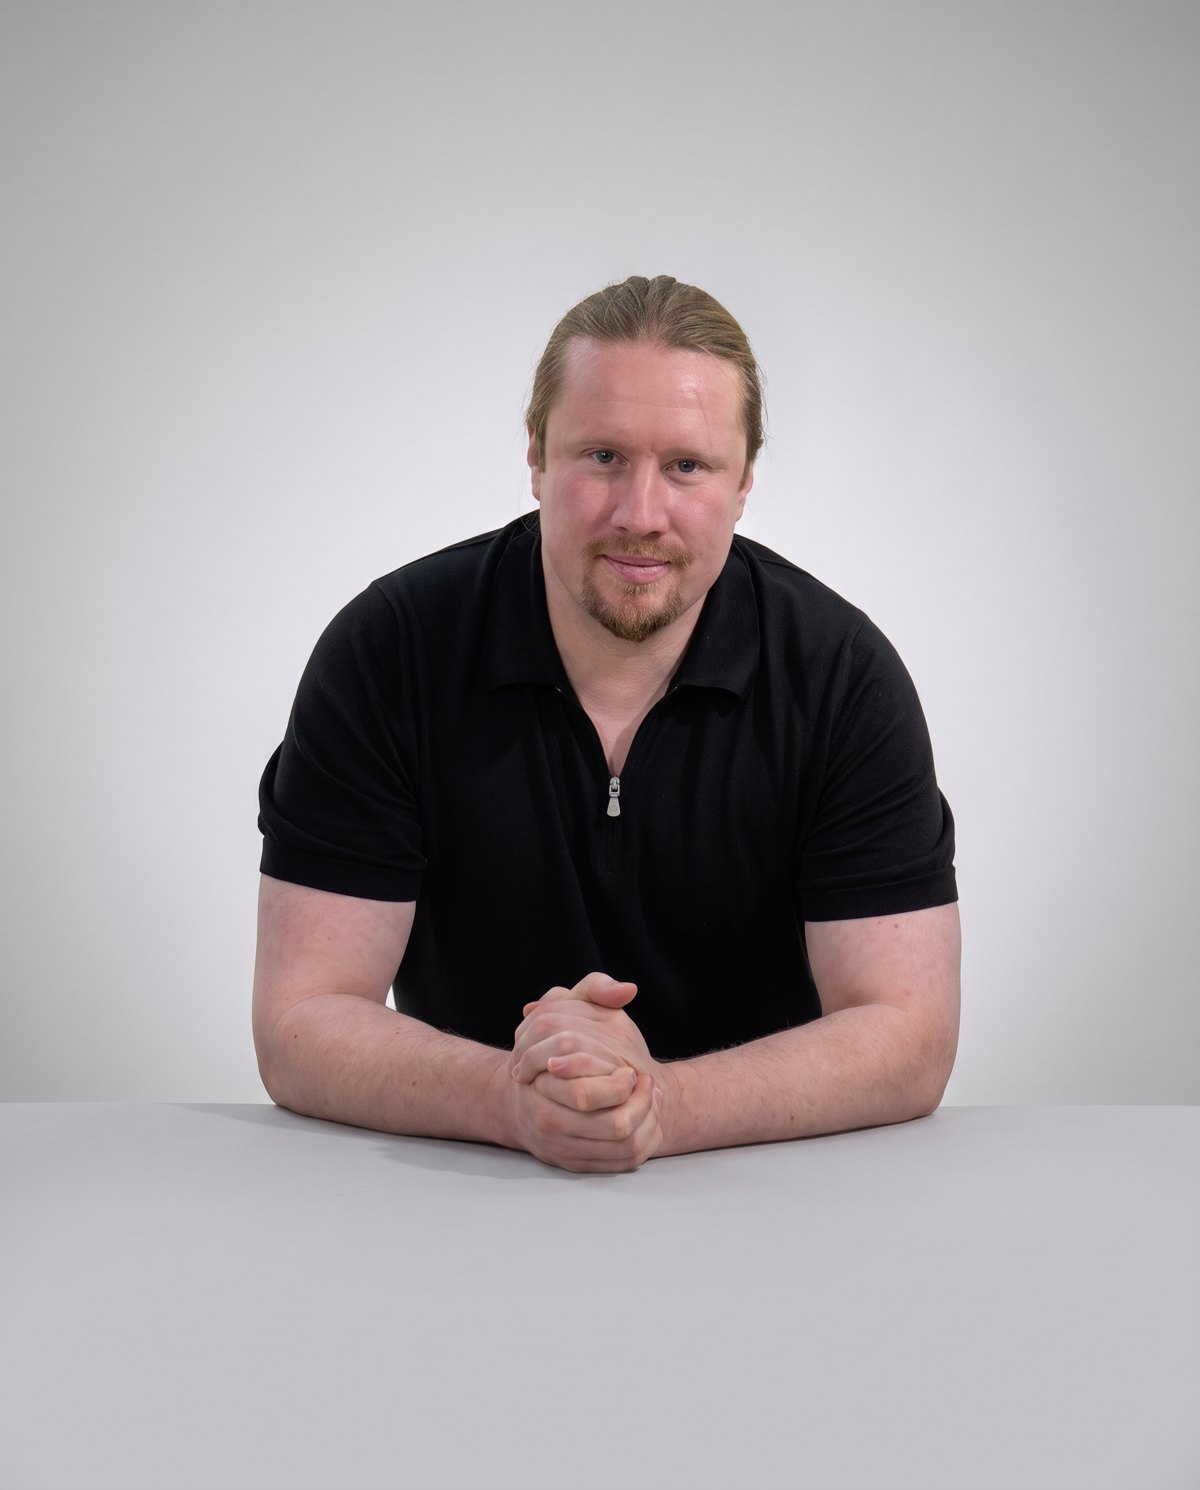
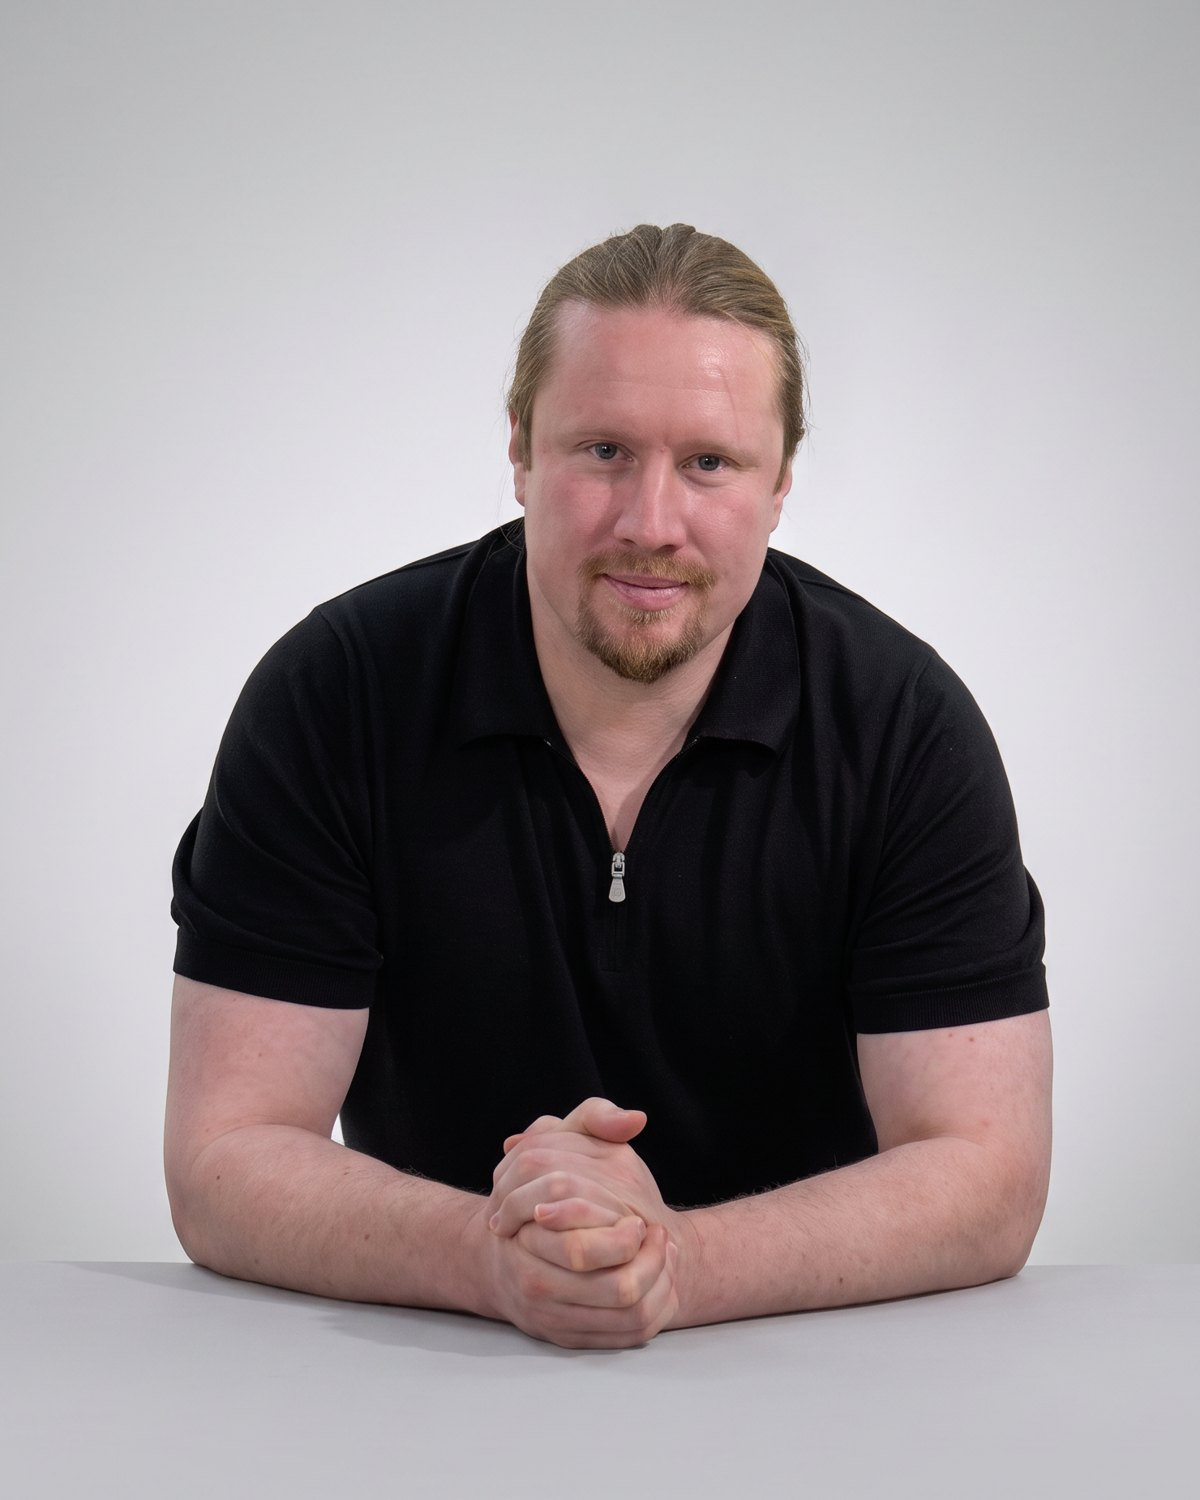
Избранные объекты: зубр, носорог, пирит, Дронино 128 кг, ботриолепис, трицератопс; Михаил приближен

Changed region(s): [[0.0, 0.3705, 1.0, 0.9262], [0.4008, 0.1235, 0.7092, 0.6174]]

diff --git a/02_site_v1_gallery/index.html b/02_site_v1_gallery/index.html
@@ -247,69 +247,69 @@
   <div class="wrap">
     <div class="section-head reveal">
       <div>
-        <div class="label">В наличии</div>
+        <div class="label">Коллекция</div>
         <h2>Избранные объекты</h2>
       </div>
       <a class="link-arrow" href="catalog.html">Весь каталог</a>
     </div>
     <div class="grid-objects">
-      <a class="obj-card reveal" href="../16_product_promos/exhibit.html?id=seymchan-pallasite">
-        <div class="ph"><img src="../shared/img/ph_seymchan.jpg?v=11" alt="Палласит Сеймчан" loading="lazy" decoding="async"></div>
+      <a class="obj-card reveal" href="../16_product_promos/exhibit.html?id=0615-bison-priscus">
+        <div class="ph"><img src="../shared/img/ph_bison_skeleton.jpg?v=11" alt="Скелет степного зубра" loading="lazy" decoding="async"></div>
         <div class="body">
-          <div class="id">R–0101, Космос</div>
-          <h3>Палласит Сеймчан</h3>
-          <div class="latin">Seymchan Pallasite</div>
-          <div class="meta">Магаданская область, Россия, ≈ 4,56 млрд лет<br>Срез 18 × 14 см, 1 240 г</div>
-          <div class="price"><b>2 400 000 ₽</b><span>Смотреть</span></div>
-        </div>
-      </a>
-      <a class="obj-card reveal" href="../16_product_promos/exhibit.html?id=megalodon-tooth">
-        <div class="ph"><img src="../shared/img/ph_megalodon.jpg?v=11" alt="Зуб мегалодона" loading="lazy" decoding="async"></div>
-        <div class="body">
-          <div class="id">R–0201, Жизнь</div>
-          <h3>Зуб мегалодона</h3>
-          <div class="latin">Otodus megalodon</div>
-          <div class="meta">Южная Каролина, США, 2,6–23 млн лет<br>15,4 см по диагонали</div>
-          <div class="price"><b>1 250 000 ₽</b><span>Смотреть</span></div>
-        </div>
-      </a>
-      <a class="obj-card reveal" href="../16_product_promos/exhibit.html?id=0224-polished-ammonites">
-        <div class="ph"><img src="../shared/img/ph_ammonite_studio.jpg?v=11" alt="Аммониты полированные" loading="lazy" decoding="async"></div>
-        <div class="body">
-          <div class="id">R–0224, Жизнь</div>
-          <h3>Аммониты полированные</h3>
-          <div class="latin">Ammonitida</div>
-          <div class="meta">Россия, мезозой<br>Набор из 7 предметов</div>
+          <div class="id">R–0615, Монументы</div>
+          <h3>Скелет степного зубра</h3>
+          <div class="latin">Bison priscus</div>
+          <div class="meta">Россия, 2,5 млн – 10 тыс лет</div>
           <div class="price"><b>Цена по запросу</b><span>Смотреть</span></div>
         </div>
       </a>
-      <a class="obj-card reveal" href="../16_product_promos/exhibit.html?id=0217-dikelokephalina">
-        <div class="ph"><img src="../shared/img/ph_trilobite_giant.jpg?v=11" alt="Гигантский трилобит" loading="lazy" decoding="async"></div>
+      <a class="obj-card reveal" href="../16_product_promos/exhibit.html?id=0611-coelodonta-skeleton">
+        <div class="ph"><img src="../shared/img/ph_rhino_skeleton.jpg?v=11" alt="Скелет шерстистого носорога" loading="lazy" decoding="async"></div>
         <div class="body">
-          <div class="id">R–0217, Жизнь</div>
-          <h3>Гигантский трилобит</h3>
-          <div class="latin">Dikelokephalina brenchleyi</div>
-          <div class="meta">Загора, Марокко, ≈ 480–472 млн лет<br>Плита 52,5 × 36,5 см, тело 33,5 × 27 см</div>
+          <div class="id">R–0611, Монументы</div>
+          <h3>Скелет шерстистого носорога</h3>
+          <div class="latin">Coelodonta antiquitatis</div>
+          <div class="meta">Якутия, Россия, 50–150 тыс лет<br>Полный скелет</div>
           <div class="price"><b>Цена по запросу</b><span>Смотреть</span></div>
         </div>
       </a>
-      <a class="obj-card reveal" href="../16_product_promos/exhibit.html?id=0214-anchiornis-huxleyi">
-        <div class="ph"><img src="../shared/img/ph_anchiornis.jpg?v=11" alt="Скелет пернатого динозавра" loading="lazy" decoding="async"></div>
+      <a class="obj-card reveal" href="../16_product_promos/exhibit.html?id=0248-pyrite">
+        <div class="ph"><img src="../shared/img/ph_pyrite.jpg?v=11" alt="Пирит" loading="lazy" decoding="async"></div>
         <div class="body">
-          <div class="id">R–0214, Жизнь</div>
-          <h3>Скелет пернатого динозавра</h3>
-          <div class="latin">Anchiornis huxleyi</div>
-          <div class="meta">Ляонин, Китай, ≈ 160 млн лет<br>Плита 53,5 × 43 см</div>
+          <div class="id">R–0248, Земля</div>
+          <h3>Пирит</h3>
+          <div class="latin">Pyrite, FeS₂</div>
+          <div class="meta">Сросток кубических кристаллов, Перу</div>
           <div class="price"><b>Цена по запросу</b><span>Смотреть</span></div>
         </div>
       </a>
-      <a class="obj-card reveal" href="../16_product_promos/exhibit.html?id=0215-dinosaur-eggs">
-        <div class="ph"><img src="../shared/img/ph_dino_eggs.jpg?v=11" alt="Яйца динозавра" loading="lazy" decoding="async"></div>
+      <a class="obj-card reveal" href="../16_product_promos/exhibit.html?id=0227-dronino-128kg">
+        <div class="ph"><img src="../shared/img/ph_dronino128.jpg?v=11" alt="Метеорит Дронино, 128 кг" loading="lazy" decoding="async"></div>
         <div class="body">
-          <div class="id">R–0215, Жизнь</div>
-          <h3>Яйца динозавра</h3>
-          <div class="latin">Elongatoolithidae</div>
-          <div class="meta">Ляонин, Китай, ≈ 89 млн лет<br>Два удлинённых яйца на общей породе</div>
+          <div class="id">R–0227, Космос</div>
+          <h3>Метеорит Дронино, 128 кг</h3>
+          <div class="latin">Dronino Iron</div>
+          <div class="meta">Рязанская область, Россия, ≈ 4,5 млрд лет<br>128 кг</div>
+          <div class="price"><b>Цена по запросу</b><span>Смотреть</span></div>
+        </div>
+      </a>
+      <a class="obj-card reveal" href="../16_product_promos/exhibit.html?id=0209-bothriolepis-sp">
+        <div class="ph"><img src="../shared/img/ph_bothriolepis.jpg?v=11" alt="Панцирная рыба Bothriolepis" loading="lazy" decoding="async"></div>
+        <div class="body">
+          <div class="id">R–0209, Жизнь</div>
+          <h3>Панцирная рыба Bothriolepis</h3>
+          <div class="latin">Bothriolepis sp.</div>
+          <div class="meta">≈ 350 млн лет<br>50 см</div>
+          <div class="price"><b>4 500 000 ₽</b><span>Смотреть</span></div>
+        </div>
+      </a>
+      <a class="obj-card reveal" href="../16_product_promos/exhibit.html?id=0271-triceratops-skull">
+        <div class="ph"><img src="../shared/img/ph_triceratops.jpg?v=11" alt="Череп трицератопса" loading="lazy" decoding="async"></div>
+        <div class="body">
+          <div class="id">R–0271, Монументы</div>
+          <h3>Череп трицератопса</h3>
+          <div class="latin">Triceratops sp.</div>
+          <div class="meta">Поздний мел, Северная Америка</div>
           <div class="price"><b>Цена по запросу</b><span>Смотреть</span></div>
         </div>
       </a>
